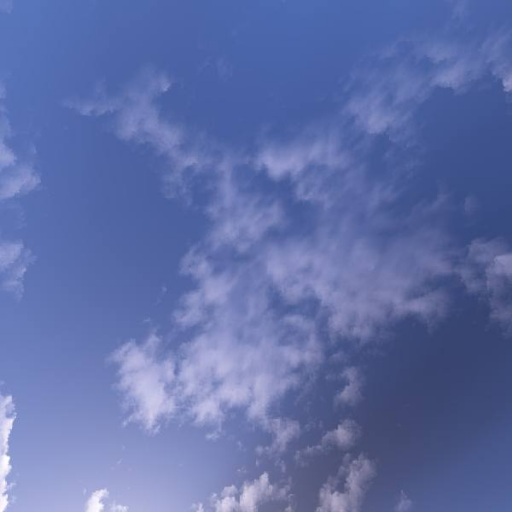
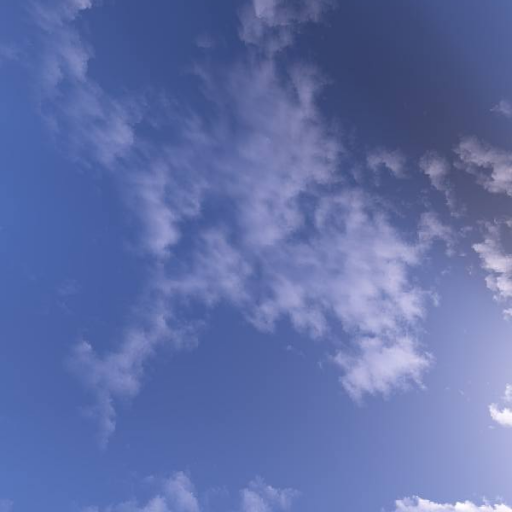
Changed the skybox rendering to get rid of edges

diff --git a/main-scene.js b/main-scene.js
@@ -4,6 +4,7 @@ class Assignment_Two_Skeleton extends Scene_Component {
         super(context, control_box);
         
         const gl = context.gl;
+        this.gl = gl;
 
         // First, include a secondary Scene that provides movement controls:
         if(!context.globals.has_controls)
@@ -95,18 +96,14 @@ class Assignment_Two_Skeleton extends Scene_Component {
 
         this.shadowmap = context.get_instance(Shadow_Shader).material();
 
+        this.skybox_shader = context.get_instance(Skybox_Shader).material();
+
         // Load some textures for the demo shapes
         this.shape_materials = {};
         const shape_textures = {
-            ball: "assets/cow2.png",
-            square: "assets/grass2.png",
-            square_sky: "assets/hills_up.png",
-            square_LF: "assets/hills_lf.png",
-            square_RT: "assets/hills_rt.png",
-            square_BK: "assets/hills_bk.png",
-            square_FR: "assets/hills_ft.png",
-            testfloor: "assets/test_floor.png"
+            ball: "assets/cow2.png"
         };
+        
         for (let t in shape_textures)
             this.shape_materials[t] = this.texture_base.override({
                 texture: context.get_instance(shape_textures[t])
@@ -118,6 +115,13 @@ class Assignment_Two_Skeleton extends Scene_Component {
                                           Vec.of(0, 1, 0)), // Up Vector
                                           Vec.of(210, 230.0, -200, 1), // Position of the light
                                           Color.of(1.0, 1.0, 1.0, 0.7), 70000)];
+
+        this.skybox = new Skybox(gl, ["assets/hills_rt.png",
+                                      "assets/hills_lf.png",
+                                      "assets/test_floor.png",
+                                      "assets/hills_up.png",
+                                      "assets/hills_bk.png",
+                                      "assets/hills_ft.png"]);
 
         this.t = 0;
 
@@ -139,71 +143,37 @@ class Assignment_Two_Skeleton extends Scene_Component {
             this.draw_ufo(graphics_state, m, true);
         });
     }
-    
-    draw_skybox(graphics_state)
-   {
-        /* sides: 400 x 400 
-           floor: spans [(0,0,0), (400, 0, -400)] 
-           
-           Sides are shifted down to make floor-side transitions smoother
-           range inside skybox: [(0,0,0), (400, 230, -400)]
-        */
 
+   draw_floor(graphics_state) {
         let m = Mat4.identity().times(Mat4.translation(Vec.of(200, 0 ,-200)));
         const size = 200; 
-
-        //sky_up
-        //m = Mat4.identity();
-        this.shapes["square"].draw(
-                    graphics_state,
-                    m.times(Mat4.translation(Vec.of(0, size+30 ,0))).
-                    times(Mat4.rotation(Math.PI/2, Vec.of(1, 0, 0))).
-                    times(Mat4.rotation(Math.PI/2, Vec.of(0, 0, 1))).
-                    times(Mat4.scale(Vec.of(size,size, 1))),
-                    this.shape_materials["square_sky"] || this.plastic);
-
-        //sky_Left
-        this.shapes["square"].draw(
-                     graphics_state,
-                     m.times(Mat4.translation(Vec.of(-size, 30, 0))).
-                     times(Mat4.rotation(Math.PI/2, Vec.of(0, 1, 0))).
-                     times(Mat4.scale(Vec.of(size,size, 1))),
-                     this.shape_materials["square_LF"] || this.plastic);
-
-        //sky_right
-        this.shapes["square"].draw(
-                    graphics_state,
-                    m.times(Mat4.translation(Vec.of(size,30,0))).
-                    times(Mat4.rotation(Math.PI*3/2, Vec.of(0, 1, 0))).
-                    times(Mat4.scale(Vec.of(size,size, 1))),
-                    this.shape_materials["square_RT"] || this.plastic);
-
-        //sky_back
-        this.shapes["square"].draw(
-                    graphics_state,
-                    m.times(Mat4.translation(Vec.of(0,30, -size))).
-                    times(Mat4.scale(Vec.of(size,size, 1))),
-                    this.shape_materials["square_BK"] || this.plastic);
-
-        //sky_front
-        this.shapes["square"].draw(
-                    graphics_state,
-                    m.times(Mat4.translation(Vec.of(0,30,size))).
-                    times(Mat4.rotation(Math.PI, Vec.of(0, 1, 0))).
-                    times(Mat4.scale(Vec.of(size,size, 1))),
-                    this.shape_materials["square_FR"] || this.plastic);
-
-        // testfloor
 
         this.lights[0].renderOutputBuffer(graphics_state, () => {
             this.shapes["square"].draw(
                     graphics_state,
-                    m.times(Mat4.rotation(-Math.PI/2, Vec.of(1, 0, 0)))
-                    .times(Mat4.scale(Vec.of(size,size, 1))),
+                    m.times(Mat4.scale(Vec.of(200, 200, 200))
+                     .times(Mat4.translation(Vec.of(0,0.0,-0.1)))
+                     .times(Mat4.rotation(-Math.PI/2, Vec.of(1, 0, 0)))),
                     this.floor);
         });
-
    }
+
+    draw_skybox(graphics_state, gl) {
+        this.skybox.renderSkybox(gl, () => {
+           let m = Mat4.identity();
+           this.shapes['box'].draw(
+                graphics_state,
+                m.times(Mat4.scale(Vec.of(200, 200, 200))
+                 .times(Mat4.translation(Vec.of(1,0.15,-1.1)))
+                 .times(Mat4.rotation(Math.PI, Vec.of(0, 0, 1)))
+                 .times(Mat4.rotation(-Math.PI, Vec.of(0, 1, 0)))),
+                this.skybox_shader
+           )
+        });
+
+        this.draw_floor(graphics_state);
+
+    }
 
     draw_cow(graphics_state, m, depth_test) {
         this.lights[0].renderOutputBuffer(graphics_state, () => {
@@ -272,7 +242,8 @@ class Assignment_Two_Skeleton extends Scene_Component {
     display(graphics_state) {
         // Use the lights stored in this.lights.
         graphics_state.lights = this.lights;
-                
+        
+        
         // Find how much time has passed in seconds, and use that to place shapes.
         if (!this.paused)
             this.t += graphics_state.animation_delta_time / 1000;
@@ -283,7 +254,7 @@ class Assignment_Two_Skeleton extends Scene_Component {
         this.renderShadowmap(graphics_state);
 
         // skybox
-        this.draw_skybox(graphics_state);
+        this.draw_skybox(graphics_state, this.gl);
 
         //cow
         m = Mat4.identity()

diff --git a/dependencies.js b/dependencies.js
@@ -572,9 +572,9 @@ window.Shadow_Phong_Shader = window.classes.Shadow_Phong_Shader =
             {
                 gpu.shader_attributes["tex_coord"].enabled = true;
                 gl.uniform1f(gpu.USE_TEXTURE_loc, 1);
-                gl.activeTexture(gl.TEXTURE1)
+                gl.activeTexture(gl.TEXTURE1);
                 gl.bindTexture(gl.TEXTURE_2D, material.texture.id);
-                gl.activeTexture(gl.TEXTURE0)
+                gl.activeTexture(gl.TEXTURE0);
             }
             else {
                 gl.uniform1f(gpu.USE_TEXTURE_loc, 0);
@@ -716,6 +716,94 @@ class Shadow_Shader extends Shader {
 			}
 		`;
 	}
+}
+
+class Skybox_Shader extends Shader {
+	constructor (gl) {
+		super(gl);
+	}
+
+	material() {
+		return {
+			shader: this
+		};
+	}
+
+	map_attribute_name_to_buffer_name(name) {
+		return {
+			object_space_pos: "positions",
+			color: "colors"
+		}[name];
+	}
+
+	update_GPU(g_state, model_transform, material, gpu = this.g_addrs, gl = this.gl) {
+		let [P,C,M] = [g_state.projection_transform, g_state.camera_transform, model_transform],
+            CM = C.times(M),
+            PCM = P.times(CM);
+
+		gl.uniformMatrix4fv(gpu.model_transform_loc, false, Mat.flatten_2D_to_1D(M.transposed()));
+		gl.uniformMatrix4fv(gpu.camera_transform_loc, false, Mat.flatten_2D_to_1D(C.transposed()));
+		gl.uniformMatrix4fv(gpu.projection_transform_loc, false, Mat.flatten_2D_to_1D(P.transposed()));
+		gl.uniformMatrix4fv(gpu.projection_camera_model_transform_loc, false, Mat.flatten_2D_to_1D(PCM.transposed()));
+		gl.uniformMatrix4fv(gpu.camera_model_transform_loc, false, Mat.flatten_2D_to_1D(CM.transposed()));
+
+		var lightTransforms_flattened = []
+		for (var i = 0 ; i < g_state.lights.length; i++) {
+			lightTransforms_flattened = Mat.flatten_2D_to_1D(g_state.lights[i].transform.transposed())
+		}
+
+		var lightColors_flattened = []
+		for (var i = 0; i < 4 * g_state.lights.length; i++) {
+			lightColors_flattened.push(g_state.lights[Math.floor(i / 4)].color[i % 4]);
+		}
+
+		gl.uniformMatrix4fv(gpu.light_transform_loc, false, lightTransforms_flattened);
+		gl.uniform4fv(gpu.light_color_loc, lightColors_flattened);
+
+	}
+
+	shared_glsl_code() {
+		return `
+		    precision mediump float;
+
+			uniform float red;
+			const int N_LIGHTS = 1;
+			uniform vec4 lightPosition[N_LIGHTS], lightColor[N_LIGHTS];
+
+			varying vec3 vCoords;
+		`;
+	}
+
+	vertex_glsl_code() {
+		return `
+			attribute vec3 object_space_pos;
+
+			
+			uniform mat4 projection_camera_model_transform;
+			uniform mat4 projection_transform;
+			uniform mat4 model_transform;
+			uniform mat4 camera_transform;
+			uniform mat4 camera_model_transform;
+			uniform mat4 light_transform[N_LIGHTS];
+
+			void main() {
+				vec4 eyeCoords = camera_model_transform * vec4(object_space_pos, 1.0);
+				gl_Position = projection_transform * eyeCoords;
+				vCoords = object_space_pos;
+			}
+		`;
+	}
+
+	fragment_glsl_code() {
+		return `
+			uniform samplerCube skybox;
+
+			void main() {				
+				gl_FragColor = textureCube(skybox, vCoords);
+			}
+		`;
+	}
+
 }
 
 // Movement_Controls is a Scene_Component that can be attached to a canvas, like any 

diff --git a/tiny-graphics.js b/tiny-graphics.js
@@ -1102,6 +1102,65 @@ class Canvas_Widget {
     }
 }
 
+class Skybox {
+    constructor(gl, images) {
+        this.gl = gl;
+
+        this.texture_id = this.load_texture_cube(gl, images);
+
+    }
+
+    load_texture_cube(gl, urls) {
+        var texture_id = 0;
+
+        var load_count = 0;
+        var skybox_images = new Array(6);
+
+        for (var i = 0; i < 6; i++) {
+            skybox_images[i] = new Image();
+            skybox_images[i].onload = function () {
+                load_count++;
+
+                // Check if we have loaded all the images
+                if (load_count == 6) {
+                    texture_id = gl.createTexture();
+                    
+                    // Creating the cube map
+                    gl.bindTexture(gl.TEXTURE_CUBE_MAP, texture_id);
+                    
+                    // Different targets for the cube map
+                    var sides = [
+                        gl.TEXTURE_CUBE_MAP_POSITIVE_X, gl.TEXTURE_CUBE_MAP_NEGATIVE_X, 
+                        gl.TEXTURE_CUBE_MAP_POSITIVE_Y, gl.TEXTURE_CUBE_MAP_NEGATIVE_Y, 
+                        gl.TEXTURE_CUBE_MAP_POSITIVE_Z, gl.TEXTURE_CUBE_MAP_NEGATIVE_Z 
+                    ];
+
+                    // Upload the image data from each image to each texture in the cube map
+                    for (var j = 0; j < 6; j++) {
+                        gl.texImage2D(sides[j], 0, gl.RGBA, gl.RGBA, gl.UNSIGNED_BYTE, skybox_images[j]);
+                        gl.texParameteri(gl.TEXTURE_CUBE_MAP, gl.TEXTURE_WRAP_S, gl.CLAMP_TO_EDGE);
+                        gl.texParameteri(gl.TEXTURE_CUBE_MAP, gl.TEXTURE_WRAP_T, gl.CLAMP_TO_EDGE);
+                    }
+
+                    gl.generateMipmap(gl.TEXTURE_CUBE_MAP);
+                }
+            }
+            skybox_images[i].src = urls[i];
+
+        }
+
+        return texture_id;
+    }
+
+    renderSkybox(gl, draw_fun) {
+        gl.clearColor(0, 0, 0, 1);
+
+        gl.clear(gl.COLOR_BUFFER_BIT | gl.DEPTH_BUFFER_BIT);
+
+        draw_fun();
+    }
+
+}
 
 window.Vec = window.tiny_graphics.Vec = Vec;
 window.Mat = window.tiny_graphics.Mat = Mat;
